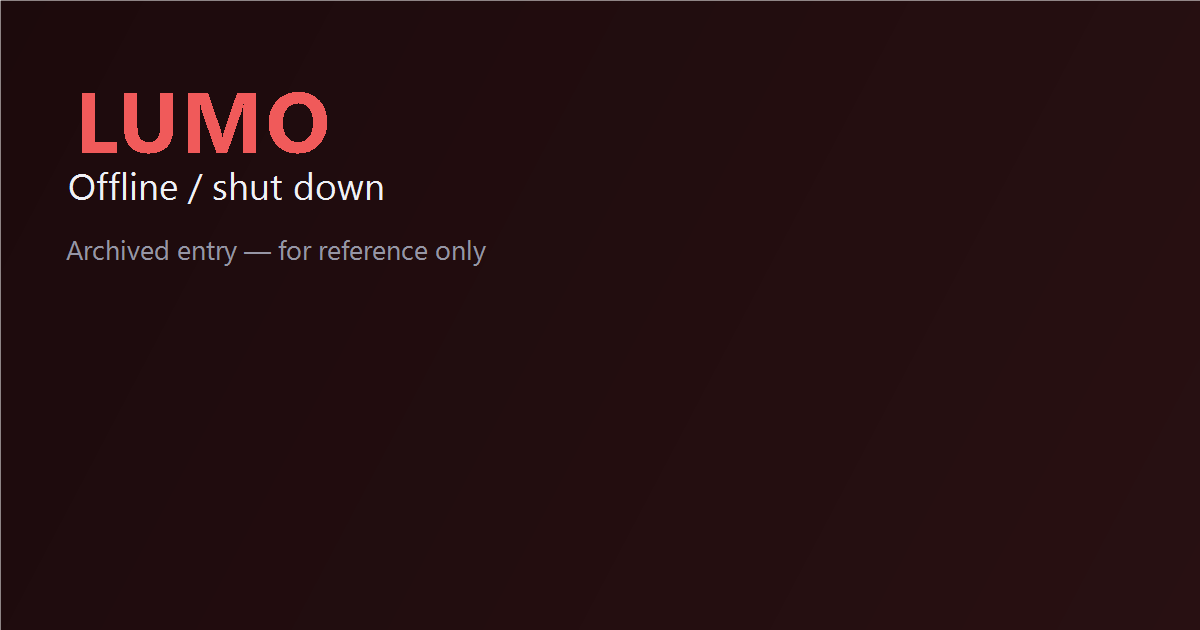
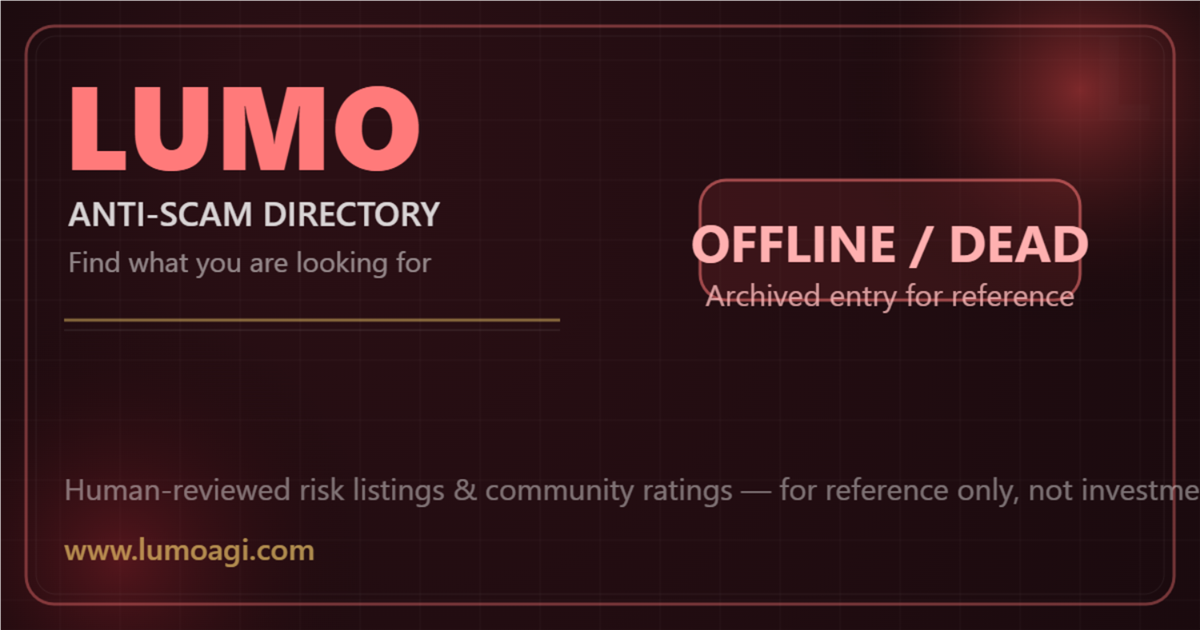
feat(share): premium balanced share card + new OG previews
- Redraw share card with vertically balanced composition (no dead gap
  above footer), fixed value/denominator overlap, overflow-safe wrapping
  for names/domains/taglines/links, and stronger caption contrast.
- Ship redesigned 1200x630 Open Graph previews (default gold + dead red).

diff --git a/public/app.js b/public/app.js
@@ -453,100 +453,199 @@
     if (it.status === 'ok') return { label: 'Official reference', cls: 'ok' };
     return { label: 'Under review', cls: 'review' };
   }
+  function wrapLines2(g, text, maxW, font, maxLines){
+    // Greedy word wrap that never lets a line exceed maxW, caps at maxLines,
+    // splits oversized single words by character and appends an ellipsis when truncated.
+    g.font = font;
+    var src = String(text == null ? '' : text).replace(/\s+/g, ' ').replace(/^ | $/g, '');
+    var words = src ? src.split(' ') : [];
+    var lines = [], cur = '', overflow = false;
+    function placeWord(w){
+      var cand = cur === '' ? w : cur + ' ' + w;
+      if (g.measureText(cand).width <= maxW) { cur = cand; return true; }
+      if (cur !== '') {
+        lines.push(cur); cur = '';
+        if (lines.length >= maxLines) { overflow = true; return false; }
+      }
+      if (g.measureText(w).width <= maxW) { cur = w; return true; }
+      // single word wider than a full line -> split by characters
+      var k = 0;
+      while (k < w.length) {
+        var best = '';
+        for (var j = k; j < w.length; j++) {
+          var c = w.slice(k, j + 1);
+          if (g.measureText(c).width > maxW) break;
+          best = c;
+        }
+        if (!best) best = w.charAt(k);
+        if (cur !== '') {
+          lines.push(cur); cur = '';
+          if (lines.length >= maxLines) { overflow = true; return false; }
+        }
+        cur = best; k += best.length;
+      }
+      return true;
+    }
+    for (var i = 0; i < words.length; i++) {
+      if (!placeWord(words[i])) break;
+    }
+    if (cur !== '') {
+      if (lines.length < maxLines) lines.push(cur);
+      else overflow = true;
+    }
+    if (overflow && lines.length) {
+      var last = lines[lines.length - 1], ell = '\u2026';
+      while (last !== '' && g.measureText(last + ell).width > maxW) last = last.slice(0, -1);
+      lines[lines.length - 1] = last === '' ? ell : last + ell;
+    }
+    return lines;
+  }
+  function fitOneLine(g, text, maxW, font){
+    g.font = font;
+    var t = String(text == null ? '' : text);
+    if (g.measureText(t).width <= maxW) return t;
+    var ell = '\u2026', a = 0, b = t.length;
+    while (a < b) {
+      var m = Math.ceil((a + b) / 2);
+      if (g.measureText(t.slice(0, m) + ell).width <= maxW) a = m;
+      else b = m - 1;
+    }
+    return t.slice(0, a) + ell;
+  }
   function drawShareCard(it){
     var cv = document.getElementById('shareCanvas');
     if (!cv) return;
-    var W=1080, H=1350;
-    cv.width=W; cv.height=H;
+    var W = 1080, H = 1350;
+    cv.width = W; cv.height = H;
     var g = cv.getContext('2d');
     var dead = liveInfo(it).key === 'off';
     var url = shareItemUrl(it);
-    // background
-    var grad = g.createLinearGradient(0,0,W,H);
-    if (dead){ grad.addColorStop(0,'#1c0e12'); grad.addColorStop(1,'#2c1318'); }
-    else { grad.addColorStop(0,'#0d0c12'); grad.addColorStop(1,'#16141f'); }
-    g.fillStyle=grad; g.fillRect(0,0,W,H);
-    // subtle glow blobs
-    g.globalAlpha=0.10; g.fillStyle='#d4af37';
-    g.beginPath(); g.arc(W-160,170,180,0,Math.PI*2); g.fill();
-    g.globalAlpha=0.07; g.fillStyle='#7c5cff';
-    g.beginPath(); g.arc(120,H-260,230,0,Math.PI*2); g.fill();
-    g.globalAlpha=1;
-    // header wordmark
-    g.fillStyle='#d4af37'; g.font='900 60px "Segoe UI", system-ui, "Microsoft YaHei", sans-serif';
-    g.fillText('LUMO', 72, 108);
-    g.fillStyle='#8a8894'; g.font='400 28px "Segoe UI", system-ui, sans-serif';
-    g.fillText('anti-scam directory', 74, 150);
-    // status chip
     var st = cardStatusOf(it);
-    g.font='700 38px "Segoe UI", system-ui, "Microsoft YaHei", sans-serif';
-    var chipTxt = st.label;
-    var chipW = g.measureText(chipTxt).width + 92;
-    g.fillStyle = st.cls==='risk' ? 'rgba(248,113,113,.14)' : st.cls==='dead' ? 'rgba(220,60,60,.18)' : st.cls==='ok' ? 'rgba(52,211,153,.14)' : 'rgba(251,191,36,.12)';
-    roundRect(g, 72, 196, chipW, 78, 18); g.fill();
-    g.strokeStyle = st.cls==='risk' ? '#f87171' : st.cls==='dead' ? '#e05252' : st.cls==='ok' ? '#34d399' : '#fbbf24';
-    g.lineWidth=3; g.stroke();
-    g.fillStyle = st.cls==='risk' ? '#fca5a5' : st.cls==='dead' ? '#f3a0a0' : st.cls==='ok' ? '#6ee7b7' : '#fcd34d';
-    g.textBaseline='middle'; g.fillText(chipTxt, 72+46, 196+39); g.textBaseline='alphabetic';
-    // name (up to 2 lines)
-    g.fillStyle='#f5f5f7'; g.font='700 86px "Segoe UI", system-ui, "Microsoft YaHei", sans-serif';
-    var nameRows = wrapText2(g, it.name, 72, 392, W-144, 100, 86, 2);
-    // domain
-    g.fillStyle='#b9b7c6'; g.font='600 46px ui-monospace, Consolas, monospace';
-    g.fillText(it.domain || '', 72, 392 + nameRows*100 + 46);
-    // divider
-    var yDiv = 392 + nameRows*100 + 120;
-    g.strokeStyle='rgba(255,255,255,.08)'; g.lineWidth=2;
-    g.beginPath(); g.moveTo(72, yDiv); g.lineTo(W-72, yDiv); g.stroke();
-    // tagline (up to 3 lines)
-    g.fillStyle='#cfccd8'; g.font='400 42px "Segoe UI", system-ui, "Microsoft YaHei", sans-serif';
-    var tag = it.tagline || '';
-    if (it.intro && tag.length < 90) tag = it.intro;
-    var yTag = yDiv + 96;
-    var tagRows = wrapText2(g, tag, 72, yTag, W-144, 58, 42, 3);
-    // scores bar
-    var yBar = yTag + tagRows*58 + 44;
-    // Lumo score (left half)
-    scoreBlock2(g, 'Lumo score', it.rating, '/10', 72, yBar, '#d4af37');
-    // divider between scores
-    g.strokeStyle='rgba(255,255,255,.07)'; g.lineWidth=2;
-    g.beginPath(); g.moveTo(W/2, yBar-8); g.lineTo(W/2, yBar+150); g.stroke();
-    // user rating (right half)
-    var us = userScoreOf(it); var uc=userCountOf(it);
-    scoreBlock2(g, 'User rating', us, '/5', W/2+56, yBar, '#f5c044');
-    // footer panel with QR
-    var yPanel = H-318; // ~1032
-    // dark panel
-    roundRect(g, 72, yPanel, W-144, 246, 26); g.fillStyle='rgba(255,255,255,.035)'; g.fill();
-    g.strokeStyle='rgba(255,255,255,.09)'; g.lineWidth=2; g.stroke();
-    // QR left inside panel
-    var qrX=112, qrY=yPanel+38, qrS=170;
-    drawQr(g, url, qrX, qrY, qrS, dead);
-    // link text right of QR
-    var tx = qrX + qrS + 46;
-    g.fillStyle='#e8e6ee'; g.font='700 40px "Segoe UI", system-ui, "Microsoft YaHei", sans-serif';
-    g.fillText('Scan to open', tx, yPanel+64);
-    g.fillStyle='#9b99a6'; g.font='400 30px "Segoe UI", system-ui, sans-serif';
-    g.fillText('Share this listing link:', tx, yPanel+112);
-    // link itself (wrapped, mono)
-    g.fillStyle='#d4af37'; g.font='500 30px ui-monospace, Consolas, monospace';
-    var linkTxt = url.replace(/^https?:\/\//,'');
-    var ly = yPanel+160;
-    var availW = (W-72-tx-40); // width left in panel
-    var cur='', parts=[];
-    for (var i=0;i<linkTxt.length;i++){
-      var ch=linkTxt.charAt(i);
-      if (g.measureText(cur+ch).width > availW && cur!=='' ){ parts.push(cur); cur=ch; }
-      else cur+=ch;
+    var accent = st.cls === 'dead' ? '#ff8a8a' : st.cls === 'risk' ? '#ff9d9d' : st.cls === 'ok' ? '#67e8b0' : '#f5d06b';
+    var gold = '#e8c166';
+    var glowCol = st.cls === 'dead' ? 'rgba(210,60,70,.38)' : st.cls === 'risk' ? 'rgba(215,90,95,.3)' : st.cls === 'ok' ? 'rgba(60,210,140,.22)' : 'rgba(235,185,90,.22)';
+    var X0 = 66, CW = W - 2 * X0;
+
+    // ---- background ----
+    var grad = g.createLinearGradient(0, 0, W, H);
+    if (dead) { grad.addColorStop(0, '#2c1016'); grad.addColorStop(.5, '#190a10'); grad.addColorStop(1, '#0c0508'); }
+    else if (it.status === 'risk') { grad.addColorStop(0, '#2b1016'); grad.addColorStop(.5, '#18080c'); grad.addColorStop(1, '#0c0508'); }
+    else if (it.status === 'ok') { grad.addColorStop(0, '#0e1c15'); grad.addColorStop(.5, '#0a130f'); grad.addColorStop(1, '#060a07'); }
+    else { grad.addColorStop(0, '#1a1419'); grad.addColorStop(.5, '#120c13'); grad.addColorStop(1, '#08060c'); }
+    g.fillStyle = grad; g.fillRect(0, 0, W, H);
+    g.fillStyle = 'rgba(255,255,255,.05)';
+    for (var gx = 46; gx < W; gx += 74) for (var gy = 46; gy < H; gy += 74) { g.beginPath(); g.arc(gx, gy, 1.5, 0, 7); g.fill(); }
+    var orb = function (x, y, r, col) { var rg = g.createRadialGradient(x, y, 0, x, y, r); rg.addColorStop(0, col); rg.addColorStop(1, 'rgba(0,0,0,0)'); g.fillStyle = rg; g.beginPath(); g.arc(x, y, r, 0, 7); g.fill(); };
+    orb(W - 120, 110, 250, glowCol); orb(70, H - 150, 290, st.cls === 'ok' ? 'rgba(70,210,150,.12)' : 'rgba(150,110,230,.12)'); orb(W - 90, H - 100, 190, 'rgba(0,0,0,.3)');
+    g.strokeStyle = 'rgba(255,255,255,.06)'; g.lineWidth = 2; roundRect(g, 22, 22, W - 44, H - 44, 28); g.stroke();
+    g.strokeStyle = 'rgba(255,255,255,.03)'; g.lineWidth = 1; roundRect(g, 34, 34, W - 68, H - 68, 18); g.stroke();
+    g.fillStyle = accent; g.fillRect(40, 22, 170, 7);
+
+    // ---- header ----
+    g.fillStyle = gold; g.font = '900 54px "Segoe UI", system-ui, "Microsoft YaHei", sans-serif';
+    g.fillText('LUMO', X0, 94);
+    g.fillStyle = 'rgba(255,255,255,.5)'; g.font = '600 19px "Segoe UI", system-ui, sans-serif';
+    g.fillText('A N T I - S C A M   D I R E C T O R Y', X0 + 4, 130);
+    g.font = '700 26px "Segoe UI", system-ui, "Microsoft YaHei", sans-serif';
+    var bw = g.measureText(st.label).width + 64, bx = W - X0 - bw;
+    g.fillStyle = st.cls === 'dead' ? 'rgba(220,60,70,.15)' : st.cls === 'risk' ? 'rgba(220,80,85,.13)' : st.cls === 'ok' ? 'rgba(60,200,140,.12)' : 'rgba(235,180,80,.12)';
+    roundRect(g, bx, 62, bw, 60, 16); g.fill();
+    g.strokeStyle = st.cls === 'dead' ? 'rgba(255,140,145,.6)' : st.cls === 'risk' ? 'rgba(255,140,140,.5)' : st.cls === 'ok' ? 'rgba(110,235,175,.5)' : 'rgba(240,195,110,.5)';
+    g.lineWidth = 2.5; g.stroke();
+    g.fillStyle = accent; g.textBaseline = 'middle'; g.fillText(st.label, bx + 32, 62 + 30); g.textBaseline = 'alphabetic';
+
+    // ---- measure content (top-packed from first name baseline NB) ----
+    var name = String(it.name || '').trim() || (it.domain || '');
+    var nsize = name.length > 26 ? 56 : name.length > 15 ? 66 : name.length > 8 ? 80 : 92;
+    var lineH = Math.round(nsize * 1.16);
+    var nameFont = '800 ' + nsize + 'px "Segoe UI", system-ui, "Microsoft YaHei", sans-serif';
+    var nameLines = wrapLines2(g, name, CW, nameFont, 2);
+    if (!nameLines.length) nameLines = [''];
+    var NB = 250;
+    var domFont = '600 38px ui-monospace,Consolas,monospace';
+    var domRaw = String(it.domain || '').replace(/^https?:\/\//, '');
+    var domText = fitOneLine(g, domRaw, CW - 60, domFont);
+    var domY = NB + (nameLines.length - 1) * lineH + 58;
+    var domW = Math.min(g.measureText(domText).width + 60, CW);
+    var tagY0 = domY + 64;
+    var tagFont = '400 34px "Segoe UI", system-ui, "Microsoft YaHei", sans-serif';
+    var tagSrc = it.tagline || ''; if (it.intro && tagSrc.length < 110) tagSrc = it.intro;
+    var tagLines = wrapLines2(g, tagSrc, CW, tagFont, 2);
+    var tagY1 = tagY0 + 66;
+    var scoreH = 190, panelH = 226, captionH = 46;
+    var scoreTop = tagY1 + (tagLines.length ? (tagLines.length - 1) * 46 + 102 : 102);
+    var capY = scoreTop + scoreH + 30;
+    var panelTop = scoreTop + scoreH + captionH + 76;
+    var panelBottom = panelTop + panelH;
+
+    // vertical balance: centre content block between the header zone and the footer
+    var ascent = Math.round(nsize * 0.76);
+    var contentTop = NB - ascent;
+    var TOP = 184, BOT = H - 120;
+    var avail = BOT - TOP, groupH = panelBottom - contentTop;
+    var dy = groupH < avail ? Math.round((avail - groupH) / 2) : Math.max(0, TOP - contentTop);
+
+    // ---- name ----
+    g.shadowColor = 'rgba(0,0,0,.5)'; g.shadowBlur = 14; g.shadowOffsetY = 3;
+    g.fillStyle = '#fbfafd'; g.font = nameFont;
+    for (var ni = 0; ni < nameLines.length; ni++) g.fillText(nameLines[ni], X0, NB + dy + ni * lineH);
+    g.shadowBlur = 0; g.shadowOffsetY = 0;
+    // ---- domain pill ----
+    var dY = domY + dy;
+    g.fillStyle = 'rgba(255,255,255,.05)'; roundRect(g, X0, dY - 38, domW, 62, 18); g.fill();
+    g.strokeStyle = 'rgba(255,255,255,.14)'; g.lineWidth = 1.5; roundRect(g, X0, dY - 38, domW, 62, 18); g.stroke();
+    g.fillStyle = 'rgba(226,224,240,.94)'; g.font = domFont;
+    g.fillText(domText, X0 + 30, dY);
+    // ---- divider + tagline ----
+    var tY0 = tagY0 + dy;
+    var dg2 = g.createLinearGradient(X0, 0, W - X0, 0); dg2.addColorStop(0, accent); dg2.addColorStop(.5, 'rgba(255,255,255,.2)'); dg2.addColorStop(1, 'rgba(255,255,255,0)');
+    g.strokeStyle = dg2; g.lineWidth = 2; g.beginPath(); g.moveTo(X0, tY0); g.lineTo(W - X0, tY0); g.stroke();
+    var tY1 = tagY1 + dy;
+    g.fillStyle = 'rgba(255,255,255,.6)'; g.font = tagFont;
+    for (var ti = 0; ti < tagLines.length; ti++) g.fillText(tagLines[ti], X0, tY1 + ti * 46);
+    // ---- score cards ----
+    var sTop = scoreTop + dy, pad = 40, gap = 24, cardW = (W - 2 * pad - gap) / 2;
+    function scoreCard(x, y, label, val, denom, colorTop) {
+      g.fillStyle = 'rgba(255,255,255,.045)'; roundRect(g, x, y, cardW, scoreH, 22); g.fill();
+      g.strokeStyle = 'rgba(255,255,255,.12)'; g.lineWidth = 1.5; roundRect(g, x, y, cardW, scoreH, 22); g.stroke();
+      g.fillStyle = colorTop; g.fillRect(x + 30, y + 26, 46, 6);
+      g.fillStyle = 'rgba(255,255,255,.55)'; g.font = '600 22px "Segoe UI", system-ui, sans-serif';
+      g.fillText(label, x + 30, y + 64);
+      g.fillStyle = '#faf6ea'; g.font = '800 80px "Segoe UI", system-ui, sans-serif';
+      var v = String(val);
+      var vw = g.measureText(v).width;
+      g.fillText(v, x + 30, y + 150);
+      g.fillStyle = 'rgba(255,255,255,.42)'; g.font = '600 28px "Segoe UI", system-ui, sans-serif';
+      g.fillText(denom, x + 30 + vw + 18, y + 146);
     }
-    if (cur) parts.push(cur);
-    for (var pi=0; pi<parts.length && pi<3; pi++){ g.fillText(parts[pi], tx, ly); ly+=42; }
-    if (parts.length>3){ g.fillText('...', tx, ly); }
-    // bottom strip
-    g.fillStyle='rgba(255,255,255,.26)'; g.font='600 32px "Segoe UI", system-ui, sans-serif';
-    g.fillText('lumoagi.com', 72, H-40);
-    g.fillStyle='rgba(255,255,255,.4)'; g.font='400 26px "Segoe UI", system-ui, sans-serif';
-    g.fillText('For reference only - not investment advice', 340, H-42);
+    scoreCard(pad, sTop, 'LUMO SCORE', it.rating, '/10', '#e8c166');
+    scoreCard(pad + cardW + gap, sTop, 'USER RATING', userScoreOf(it), '/5', '#f0cd7a');
+    // ---- community caption ----
+    var cY = capY + dy;
+    g.fillStyle = 'rgba(255,255,255,.55)'; g.font = '400 22px "Segoe UI", system-ui, sans-serif';
+    g.fillText(userCountOf(it) + ' community ratings', pad + cardW + gap + 30, cY);
+    // ---- QR panel ----
+    var pTop = panelTop + dy;
+    roundRect(g, X0, pTop, CW, panelH, 24); g.fillStyle = 'rgba(255,255,255,.03)'; g.fill();
+    g.strokeStyle = 'rgba(255,255,255,.13)'; g.lineWidth = 2; roundRect(g, X0, pTop, CW, panelH, 24); g.stroke();
+    var qrS = panelH - 92, qrX = X0 + 52, qrY = pTop + (panelH - qrS) / 2;
+    drawQr(g, url, qrX, qrY, qrS, dead);
+    var tx = qrX + qrS + 50, tw = (W - X0) - tx - 44;
+    g.fillStyle = accent; g.font = '700 40px "Segoe UI", system-ui, sans-serif';
+    g.fillText('Scan to open', tx, pTop + 62);
+    g.fillStyle = 'rgba(255,255,255,.5)'; g.font = '400 24px "Segoe UI", system-ui, sans-serif';
+    g.fillText('Share this listing', tx, pTop + 104);
+    g.strokeStyle = 'rgba(255,255,255,.16)'; g.lineWidth = 1; g.beginPath(); g.moveTo(tx, pTop + 128); g.lineTo(tx + Math.min(tw, 320), pTop + 128); g.stroke();
+    var linkFont = '500 26px ui-monospace,Consolas,monospace';
+    var linkLine = fitOneLine(g, url.replace(/^https?:\/\//, ''), tw, linkFont);
+    g.fillStyle = '#eccf82'; g.font = linkFont;
+    g.fillText(linkLine, tx, pTop + 178);
+    // ---- footer (not shifted) ----
+    var yb = H - 50;
+    g.fillStyle = 'rgba(232,193,102,.9)'; g.font = '700 26px "Segoe UI", system-ui, sans-serif';
+    g.fillText('lumoagi.com', X0, yb);
+    g.fillStyle = 'rgba(255,255,255,.34)'; g.font = '400 20px "Segoe UI", system-ui, sans-serif';
+    g.fillText('For reference only - not investment advice', 330, yb);
   }
   function scoreBlock2(g, label, val, maxStr, x, y, color){
     g.fillStyle='#8a8894'; g.font='600 30px "Segoe UI", system-ui, sans-serif';
